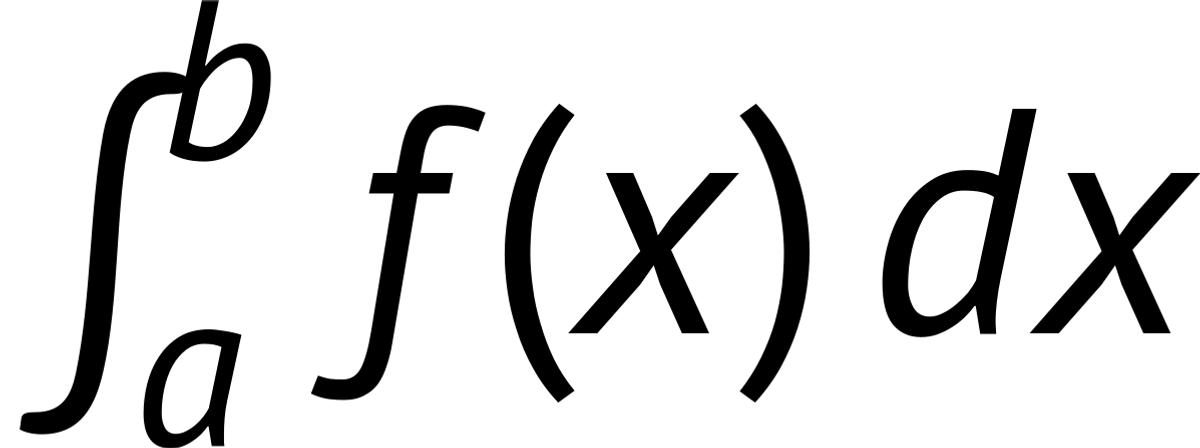
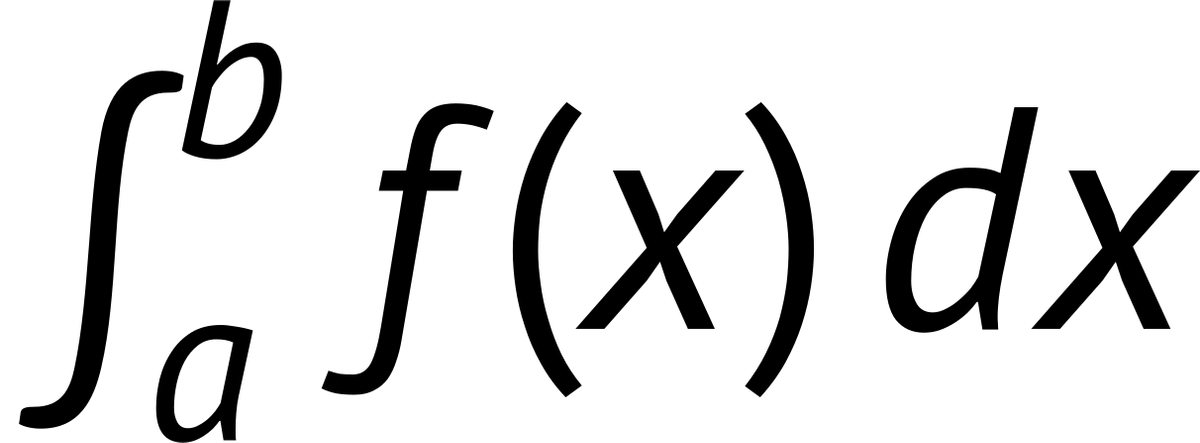
PT Sans: adjust smallop ratio 0.70→0.78 (was too tucked)

diff --git a/mathjax-ptsans/cjs/svg/smallop.js b/mathjax-ptsans/cjs/svg/smallop.js
@@ -49,15 +49,15 @@ exports.smallop = {
     0x221A: [0.952, 0.2, 0.649, { p: '16 258 31 182 85 194 229 -200H333L637 875H664V952H572L278 -105L143 284Z' }],
     0x221B: [0.952, 0.2, 0.693, { p: '60 258 75 182 129 194 273 -200H377L681 875H708V952H616L322 -105L187 284ZM124 624C143 566 177 528 254 528C333 528 380 579 380 640C380 681 357 708 312 720C352 735 372 763 372 806C372 853 335 900 260 900C186 900 145 859 135 794L168 788C172 787 175 787 178 787C209 787 191 846 256 846C288 846 309 829 309 796C309 753 279 739 230 739V696C279 696 314 686 314 638C314 604 286 582 251 582C215 582 196 603 186 628C183 635 175 639 166 639C161 639 157 638 152 636Z' }],
     0x221C: [0.952, 0.2, 0.693, { p: '60 258 75 182 129 194 273 -200H377L681 875H708V952H616L322 -105L187 284ZM124 652 130 624C133 615 137 610 150 610H304V522H358V610H399C407 610 412 615 412 623V656H358V886H296ZM186 656 306 820C305 804 304 789 304 776V656Z' }],
-    0x222B: [0.845, 0.285, 0.413, { p: '60 -270C78 -280 103 -285 129 -285C251 -285 296 -195 320 -91C373 140 356 420 405 654C419 720 444 776 531 776C563 776 573 780 575 793L580 830C562 840 538 845 511 845C426 845 348 804 320 652C277 416 284 141 235 -94C221 -160 195 -216 109 -216C86 -216 67 -218 65 -235Z', ic: 0.03 }],
-    0x222C: [0.845, 0.285, 0.581, { p: '60 -270C78 -280 103 -285 129 -285C251 -285 296 -195 320 -91C373 140 356 420 405 654C419 720 444 776 531 776C563 776 573 780 575 793L580 830C562 840 538 845 511 845C426 845 348 804 320 652C277 416 284 141 235 -94C221 -160 195 -216 109 -216C86 -216 71 -216 65 -232ZM300 -270C318 -280 343 -285 369 -285C491 -285 536 -195 560 -91C613 140 596 420 645 654C659 720 684 776 771 776C803 776 813 780 815 793L820 830C802 840 778 845 751 845C666 845 588 804 560 652C517 416 524 141 475 -94C461 -160 435 -216 349 -216C326 -216 311 -216 305 -232Z', ic: 0.03 }],
-    0x222D: [0.845, 0.285, 0.749, { p: '60 -270C78 -280 103 -285 129 -285C251 -285 296 -195 320 -91C373 140 356 420 405 654C419 720 444 776 531 776C563 776 573 780 575 793L580 830C562 840 538 845 511 845C426 845 348 804 320 652C277 416 284 141 235 -94C221 -160 195 -216 109 -216C86 -216 71 -216 65 -232ZM300 -270C318 -280 343 -285 369 -285C491 -285 536 -195 560 -91C613 140 596 420 645 654C659 720 684 776 771 776C803 776 813 780 815 793L820 830C802 840 778 845 751 845C666 845 588 804 560 652C517 416 524 141 475 -94C461 -160 435 -216 349 -216C326 -216 311 -216 305 -232ZM540 -270C558 -280 583 -285 609 -285C731 -285 776 -195 800 -91C853 140 836 420 885 654C899 720 924 776 1011 776C1043 776 1053 780 1055 793L1060 830C1042 840 1018 845 991 845C906 845 828 804 800 652C757 416 764 141 715 -94C701 -160 675 -216 589 -216C566 -216 551 -216 545 -232Z', ic: 0.03 }],
-    0x222E: [0.845, 0.285, 0.413, { p: '60 -270C78 -280 103 -285 129 -285C272 -285 317 -168 344 49C463 61 555 161 555 283C555 391 482 482 383 510C388 559 395 607 405 654C419 720 444 776 531 776C563 776 573 780 575 793L580 830C562 840 538 845 511 845C426 845 348 804 320 652C312 608 306 563 300 517C180 507 85 406 85 283C85 174 159 83 259 56C253 5 245 -45 235 -94C221 -160 195 -216 109 -216C86 -216 71 -216 65 -232ZM133 283C133 378 204 456 295 468C283 349 277 224 265 104C188 128 133 199 133 283ZM350 98C362 217 366 341 378 461C453 437 507 366 507 283C507 190 439 113 350 98Z', ic: 0.03 }],
-    0x222F: [0.845, 0.285, 0.581, { p: '60 -270C78 -280 103 -285 129 -285C271 -285 318 -171 345 58C375 51 407 48 440 48C460 48 480 49 499 52C473 -132 461 -216 349 -216C326 -216 311 -216 305 -232L300 -270C318 -280 343 -285 369 -285C529 -285 561 -135 587 72C698 110 775 190 775 283C775 367 713 440 620 481C643 709 667 776 771 776C803 776 813 780 815 793L820 830C802 840 778 845 751 845C580 845 561 687 539 507C508 514 475 518 440 518C421 518 402 517 383 515C407 701 423 776 531 776C563 776 573 780 575 793L580 830C562 840 538 845 511 845C338 845 319 681 298 496C184 459 105 377 105 283C105 199 168 125 262 84C256 23 247 -37 235 -94C221 -160 195 -216 109 -216C86 -216 71 -216 65 -232ZM153 283C153 351 209 411 293 444C284 341 278 236 268 134C198 168 153 222 153 283ZM350 105C362 224 367 347 378 466C398 468 419 470 440 470C473 470 505 466 535 460C523 341 517 219 504 101C484 98 462 96 440 96C409 96 379 99 350 105ZM592 125C602 225 606 330 615 431C683 397 727 343 727 283C727 216 673 158 592 125Z', ic: 0.03 }],
-    0x2230: [0.845, 0.285, 0.749, { p: '60 -270C78 -280 103 -285 129 -285C282 -285 320 -152 348 79C393 65 444 55 498 50C474 -145 454 -216 349 -216C326 -216 311 -216 305 -232L300 -270C318 -280 343 -285 369 -285C514 -285 557 -165 584 48C640 50 693 58 741 70C734 14 726 -41 715 -94C701 -160 675 -216 589 -216C566 -216 551 -216 545 -232L540 -270C558 -280 583 -285 609 -285C761 -285 803 -153 830 101C925 144 985 210 985 283C985 349 936 409 857 451C863 521 871 589 885 654C899 720 924 776 1011 776C1043 776 1053 780 1055 793L1060 830C1042 840 1018 845 991 845C817 845 798 680 777 485C731 500 679 511 623 515C647 706 666 776 771 776C803 776 813 780 815 793L820 830C802 840 778 845 751 845C581 845 559 684 541 518C484 516 430 509 381 496C405 708 427 776 531 776C563 776 573 780 575 793L580 830C562 840 538 845 511 845C426 845 348 804 320 652C309 592 301 530 295 467C198 424 135 358 135 283C135 216 185 156 266 113C258 42 249 -27 235 -94C221 -160 195 -216 109 -216C86 -216 71 -216 65 -232ZM183 283C183 334 224 380 290 414C283 331 278 246 270 163C216 196 183 238 183 283ZM352 127C362 232 367 341 376 446C424 459 478 468 536 470C523 347 517 220 504 98C449 102 397 112 352 127ZM589 97C602 218 606 346 618 468C675 463 727 453 772 437C763 333 757 225 746 120C699 107 646 99 589 97ZM835 155C842 236 846 319 852 401C905 369 937 328 937 283C937 234 898 189 835 155Z', ic: 0.03 }],
-    0x2231: [0.845, 0.285, 0.413, { p: '60 -270C78 -280 103 -285 129 -285C251 -285 296 -195 320 -91C359 79 360 275 377 461C452 438 506 372 506 285L435 374L417 331L530 185L623 331L596 374L555 285C555 393 482 483 383 510C388 559 395 607 405 654C419 720 444 776 531 776C563 776 573 780 575 793L580 830C562 840 538 845 511 845C426 845 348 804 320 652C312 608 306 563 301 517C182 507 87 408 85 287H134C136 380 205 456 295 467C277 280 272 82 235 -94C221 -160 195 -216 109 -216C86 -216 67 -218 65 -235Z', ic: 0.03 }],
-    0x2232: [0.845, 0.285, 0.413, { p: '60 -270C78 -280 103 -285 129 -285C272 -285 317 -168 344 49C435 58 510 119 541 202L623 331L596 374L555 285C554 392 481 482 383 510C388 559 395 607 405 654C419 720 444 776 531 776C563 776 573 780 575 793L580 830C562 840 538 845 511 845C426 845 348 804 320 652C312 608 306 563 300 517C180 507 85 406 85 283C85 174 159 83 259 56C253 5 245 -45 235 -94C221 -160 195 -216 109 -216C86 -216 71 -216 65 -232ZM133 283C133 378 204 456 295 468C283 349 277 224 265 104C188 128 133 199 133 283ZM350 98C362 217 366 341 378 461C452 437 506 367 507 285L435 374L417 331L498 226C477 160 420 110 350 98Z', ic: 0.03 }],
-    0x2233: [0.845, 0.285, 0.413, { p: '60 -270C78 -280 103 -285 129 -285C272 -285 317 -168 344 49C462 61 554 160 555 281L607 192L634 235L531 386C502 446 448 492 383 510C388 559 395 607 405 654C419 720 444 776 531 776C563 776 573 780 575 793L580 830C562 840 538 845 511 845C426 845 348 804 320 652C312 608 306 563 300 517C180 507 85 406 85 283C85 174 159 83 259 56C253 5 245 -45 235 -94C221 -160 195 -216 109 -216C86 -216 71 -216 65 -232ZM133 283C133 378 204 456 295 468C283 349 277 224 265 104C188 128 133 199 133 283ZM350 98C362 217 366 341 378 461C429 445 470 407 492 358L408 235L426 192C457 225 477 247 507 281C506 189 438 113 350 98Z', ic: 0.03 }],
+    0x222B: [0.845, 0.285, 0.46, { p: '60 -270C78 -280 103 -285 129 -285C251 -285 296 -195 320 -91C373 140 356 420 405 654C419 720 444 776 531 776C563 776 573 780 575 793L580 830C562 840 538 845 511 845C426 845 348 804 320 652C277 416 284 141 235 -94C221 -160 195 -216 109 -216C86 -216 67 -218 65 -235Z', ic: 0.03 }],
+    0x222C: [0.845, 0.285, 0.647, { p: '60 -270C78 -280 103 -285 129 -285C251 -285 296 -195 320 -91C373 140 356 420 405 654C419 720 444 776 531 776C563 776 573 780 575 793L580 830C562 840 538 845 511 845C426 845 348 804 320 652C277 416 284 141 235 -94C221 -160 195 -216 109 -216C86 -216 71 -216 65 -232ZM300 -270C318 -280 343 -285 369 -285C491 -285 536 -195 560 -91C613 140 596 420 645 654C659 720 684 776 771 776C803 776 813 780 815 793L820 830C802 840 778 845 751 845C666 845 588 804 560 652C517 416 524 141 475 -94C461 -160 435 -216 349 -216C326 -216 311 -216 305 -232Z', ic: 0.03 }],
+    0x222D: [0.845, 0.285, 0.835, { p: '60 -270C78 -280 103 -285 129 -285C251 -285 296 -195 320 -91C373 140 356 420 405 654C419 720 444 776 531 776C563 776 573 780 575 793L580 830C562 840 538 845 511 845C426 845 348 804 320 652C277 416 284 141 235 -94C221 -160 195 -216 109 -216C86 -216 71 -216 65 -232ZM300 -270C318 -280 343 -285 369 -285C491 -285 536 -195 560 -91C613 140 596 420 645 654C659 720 684 776 771 776C803 776 813 780 815 793L820 830C802 840 778 845 751 845C666 845 588 804 560 652C517 416 524 141 475 -94C461 -160 435 -216 349 -216C326 -216 311 -216 305 -232ZM540 -270C558 -280 583 -285 609 -285C731 -285 776 -195 800 -91C853 140 836 420 885 654C899 720 924 776 1011 776C1043 776 1053 780 1055 793L1060 830C1042 840 1018 845 991 845C906 845 828 804 800 652C757 416 764 141 715 -94C701 -160 675 -216 589 -216C566 -216 551 -216 545 -232Z', ic: 0.03 }],
+    0x222E: [0.845, 0.285, 0.46, { p: '60 -270C78 -280 103 -285 129 -285C272 -285 317 -168 344 49C463 61 555 161 555 283C555 391 482 482 383 510C388 559 395 607 405 654C419 720 444 776 531 776C563 776 573 780 575 793L580 830C562 840 538 845 511 845C426 845 348 804 320 652C312 608 306 563 300 517C180 507 85 406 85 283C85 174 159 83 259 56C253 5 245 -45 235 -94C221 -160 195 -216 109 -216C86 -216 71 -216 65 -232ZM133 283C133 378 204 456 295 468C283 349 277 224 265 104C188 128 133 199 133 283ZM350 98C362 217 366 341 378 461C453 437 507 366 507 283C507 190 439 113 350 98Z', ic: 0.03 }],
+    0x222F: [0.845, 0.285, 0.647, { p: '60 -270C78 -280 103 -285 129 -285C271 -285 318 -171 345 58C375 51 407 48 440 48C460 48 480 49 499 52C473 -132 461 -216 349 -216C326 -216 311 -216 305 -232L300 -270C318 -280 343 -285 369 -285C529 -285 561 -135 587 72C698 110 775 190 775 283C775 367 713 440 620 481C643 709 667 776 771 776C803 776 813 780 815 793L820 830C802 840 778 845 751 845C580 845 561 687 539 507C508 514 475 518 440 518C421 518 402 517 383 515C407 701 423 776 531 776C563 776 573 780 575 793L580 830C562 840 538 845 511 845C338 845 319 681 298 496C184 459 105 377 105 283C105 199 168 125 262 84C256 23 247 -37 235 -94C221 -160 195 -216 109 -216C86 -216 71 -216 65 -232ZM153 283C153 351 209 411 293 444C284 341 278 236 268 134C198 168 153 222 153 283ZM350 105C362 224 367 347 378 466C398 468 419 470 440 470C473 470 505 466 535 460C523 341 517 219 504 101C484 98 462 96 440 96C409 96 379 99 350 105ZM592 125C602 225 606 330 615 431C683 397 727 343 727 283C727 216 673 158 592 125Z', ic: 0.03 }],
+    0x2230: [0.845, 0.285, 0.835, { p: '60 -270C78 -280 103 -285 129 -285C282 -285 320 -152 348 79C393 65 444 55 498 50C474 -145 454 -216 349 -216C326 -216 311 -216 305 -232L300 -270C318 -280 343 -285 369 -285C514 -285 557 -165 584 48C640 50 693 58 741 70C734 14 726 -41 715 -94C701 -160 675 -216 589 -216C566 -216 551 -216 545 -232L540 -270C558 -280 583 -285 609 -285C761 -285 803 -153 830 101C925 144 985 210 985 283C985 349 936 409 857 451C863 521 871 589 885 654C899 720 924 776 1011 776C1043 776 1053 780 1055 793L1060 830C1042 840 1018 845 991 845C817 845 798 680 777 485C731 500 679 511 623 515C647 706 666 776 771 776C803 776 813 780 815 793L820 830C802 840 778 845 751 845C581 845 559 684 541 518C484 516 430 509 381 496C405 708 427 776 531 776C563 776 573 780 575 793L580 830C562 840 538 845 511 845C426 845 348 804 320 652C309 592 301 530 295 467C198 424 135 358 135 283C135 216 185 156 266 113C258 42 249 -27 235 -94C221 -160 195 -216 109 -216C86 -216 71 -216 65 -232ZM183 283C183 334 224 380 290 414C283 331 278 246 270 163C216 196 183 238 183 283ZM352 127C362 232 367 341 376 446C424 459 478 468 536 470C523 347 517 220 504 98C449 102 397 112 352 127ZM589 97C602 218 606 346 618 468C675 463 727 453 772 437C763 333 757 225 746 120C699 107 646 99 589 97ZM835 155C842 236 846 319 852 401C905 369 937 328 937 283C937 234 898 189 835 155Z', ic: 0.03 }],
+    0x2231: [0.845, 0.285, 0.46, { p: '60 -270C78 -280 103 -285 129 -285C251 -285 296 -195 320 -91C359 79 360 275 377 461C452 438 506 372 506 285L435 374L417 331L530 185L623 331L596 374L555 285C555 393 482 483 383 510C388 559 395 607 405 654C419 720 444 776 531 776C563 776 573 780 575 793L580 830C562 840 538 845 511 845C426 845 348 804 320 652C312 608 306 563 301 517C182 507 87 408 85 287H134C136 380 205 456 295 467C277 280 272 82 235 -94C221 -160 195 -216 109 -216C86 -216 67 -218 65 -235Z', ic: 0.03 }],
+    0x2232: [0.845, 0.285, 0.46, { p: '60 -270C78 -280 103 -285 129 -285C272 -285 317 -168 344 49C435 58 510 119 541 202L623 331L596 374L555 285C554 392 481 482 383 510C388 559 395 607 405 654C419 720 444 776 531 776C563 776 573 780 575 793L580 830C562 840 538 845 511 845C426 845 348 804 320 652C312 608 306 563 300 517C180 507 85 406 85 283C85 174 159 83 259 56C253 5 245 -45 235 -94C221 -160 195 -216 109 -216C86 -216 71 -216 65 -232ZM133 283C133 378 204 456 295 468C283 349 277 224 265 104C188 128 133 199 133 283ZM350 98C362 217 366 341 378 461C452 437 506 367 507 285L435 374L417 331L498 226C477 160 420 110 350 98Z', ic: 0.03 }],
+    0x2233: [0.845, 0.285, 0.46, { p: '60 -270C78 -280 103 -285 129 -285C272 -285 317 -168 344 49C462 61 554 160 555 281L607 192L634 235L531 386C502 446 448 492 383 510C388 559 395 607 405 654C419 720 444 776 531 776C563 776 573 780 575 793L580 830C562 840 538 845 511 845C426 845 348 804 320 652C312 608 306 563 300 517C180 507 85 406 85 283C85 174 159 83 259 56C253 5 245 -45 235 -94C221 -160 195 -216 109 -216C86 -216 71 -216 65 -232ZM133 283C133 378 204 456 295 468C283 349 277 224 265 104C188 128 133 199 133 283ZM350 98C362 217 366 341 378 461C429 445 470 407 492 358L408 235L426 192C457 225 477 247 507 281C506 189 438 113 350 98Z', ic: 0.03 }],
     0x22C0: [0.791, 0.231, 0.924, { p: '54 -231H130L462 646L794 -231H870L490 791H434Z' }],
     0x22C1: [0.791, 0.231, 0.924, { p: '54 791 434 -231H490L870 791H794L462 -86L130 791Z' }],
     0x22C2: [0.791, 0.231, 0.924, { p: '94 -231H167V474C167 601 298 718 462 718C626 718 757 601 757 474V-231H830V461C830 659 643 791 468 791C270 791 94 658 94 461Z' }],

diff --git a/mathjax-ptsans/build.py b/mathjax-ptsans/build.py
@@ -170,7 +170,7 @@ def main():
     print("  Adjusted overbrace/underbrace label spacing (+0.35em)")
 
     # Adjust integral widths for better subscript tucking
-    adjust_integral_widths(OUTPUT_DIR, smallop_w_ratio=0.70, smallop_ic=0.03, largeop_w_ratio=0.68, largeop_ic=0.25)
+    adjust_integral_widths(OUTPUT_DIR, smallop_w_ratio=0.78, smallop_ic=0.03, largeop_w_ratio=0.68, largeop_ic=0.25)
 
     # Wire calligraphic AND script in svg.js
     svg_js = os.path.join(OUTPUT_DIR, 'cjs/svg.js')
